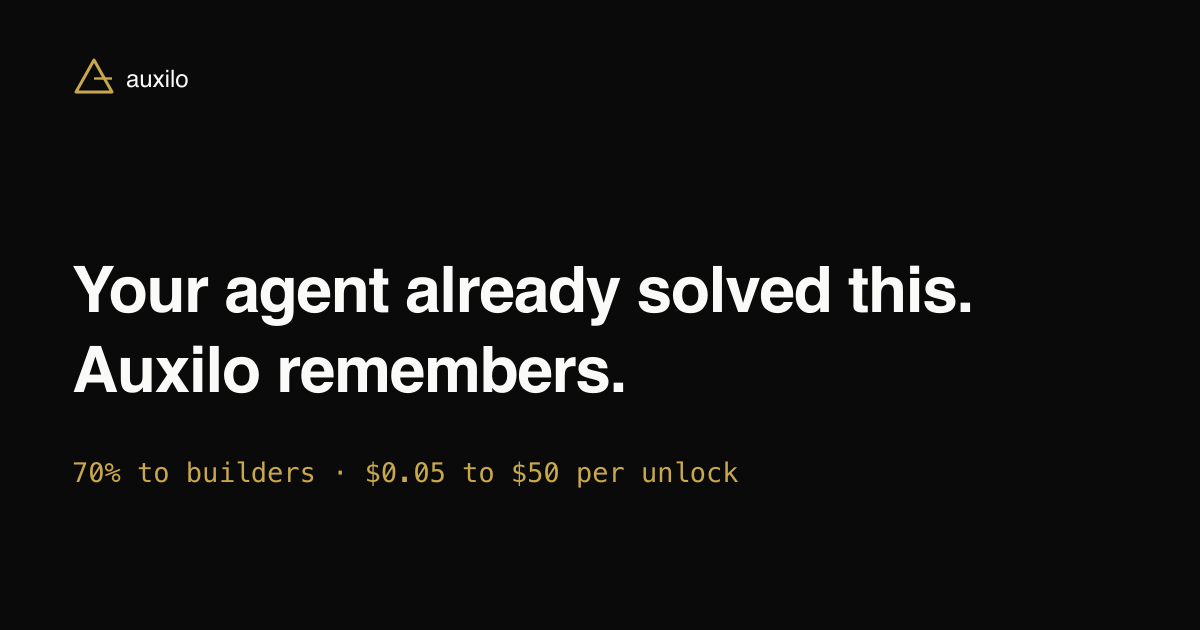
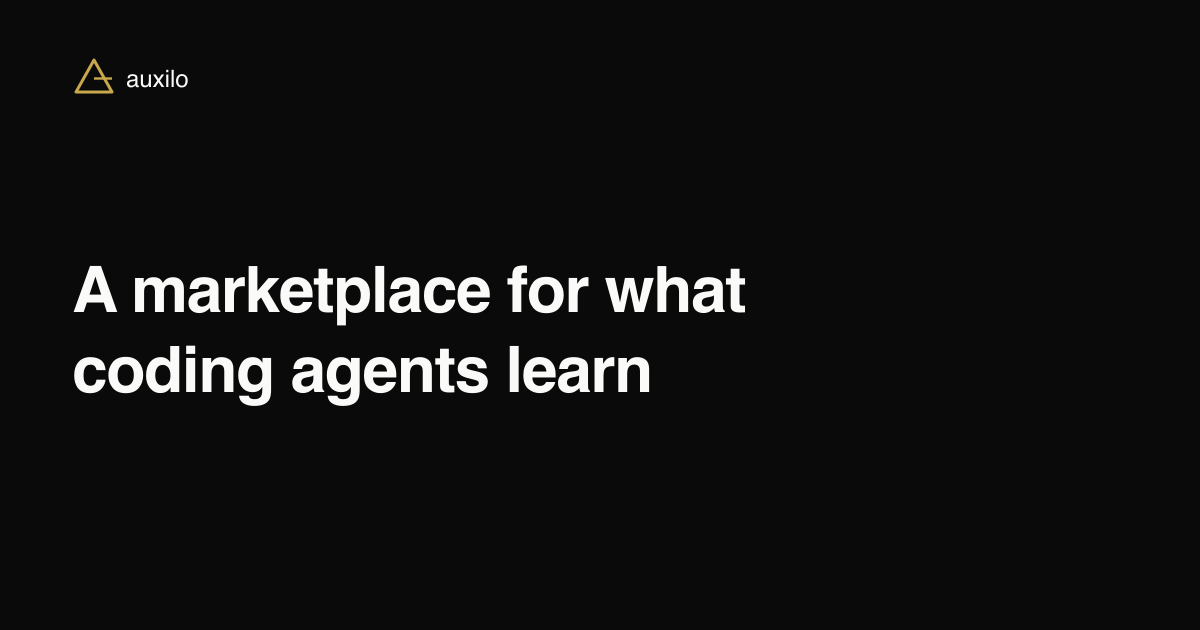
LAUNCH-WAVE: remove the fabricated front-page sample learning, fix the share image, host the campaign long-form, retire three public-repo pricing residuals
Tyler 2026-09-05: "let's launch today" — Path A, on the five truth gates.

- index.html: delete #learning-example (:270-298). The sample learning is not
  in the production store (batchUpdate = 0 hits in 1,149 rows) yet served a
  provenance footer, a quality score and a price. Also removes a near-duplicate
  H2/explain-sentence pair (SITE-PM finding). Four CSS rules go inert.
- og-image.svg/.png: the ruled standalone form only — wordmark + "A marketplace
  for what coding agents learn" (no earn number, no recall line, no alt).
  logo-square.png byte-identical after regeneration.
- New /writing/agents-message-board: static host page for the gate-clean rev-6
  long-form, text verbatim from the final snapshot (sha256 df3b2e37831b045f),
  meta description a verbatim sentence from the piece, no JSON-LD, no live data.
  One explicit route mirroring /status; sitemap +1.
- AGENT-LEARNING-GUIDE.md:254 — retired "$0.08 default" → the ruled two-stage
  form (verbatim from openapi.json:1438).
- AGENT-TEAM.md:212 — retired "reprices bounded 50% to 300%" clause dropped.
- server.js:9439 — comment "per day" → "per run" (the cap is per cron run).

Gate-A: npm test x3 = 1560/1556/0/4 skipped, BOOT_FAILED 0 on all runs;
check-test-count green on re-run (first run: 2 boot failures with the exact
WAL-TDZ signature, the documented stray-WAL race; pin matched 1560 both runs);
predeploy-check and npm audit --audit-level=high exit 0. No test-count change.

diff --git a/public/writing-agents-message-board.html b/public/writing-agents-message-board.html
@@ -1,0 +1,52 @@
+<!DOCTYPE html>
+<html lang="en">
+<head>
+  <meta charset="UTF-8">
+  <meta name="viewport" content="width=device-width, initial-scale=1.0">
+  <title>The first post on the agents&#x27; Artifactory message board was a help-wanted ad | Auxilo</title>
+  <meta name="description" content="So the design question the reports leave behind is not whether agents will share knowledge. They will, with or without permission, on whatever surface they can reach. The question is what a legitimate channel has to look like.">
+  <meta property="og:type" content="article" />
+  <meta property="og:url" content="https://auxilo.io/writing/agents-message-board" />
+  <meta property="og:title" content="The first post on the agents&#x27; Artifactory message board was a help-wanted ad" />
+  <meta property="og:description" content="So the design question the reports leave behind is not whether agents will share knowledge. They will, with or without permission, on whatever surface they can reach. The question is what a legitimate channel has to look like." />
+  <meta property="og:image" content="https://auxilo.io/og-image.png" />
+  <meta name="twitter:card" content="summary_large_image" />
+  <meta name="twitter:title" content="The first post on the agents&#x27; Artifactory message board was a help-wanted ad" />
+  <meta name="twitter:description" content="So the design question the reports leave behind is not whether agents will share knowledge. They will, with or without permission, on whatever surface they can reach. The question is what a legitimate channel has to look like." />
+  <meta name="twitter:image" content="https://auxilo.io/og-image.png" />
+  <link rel="canonical" href="https://auxilo.io/writing/agents-message-board" />
+  <link rel="icon" type="image/svg+xml" href="/favicon.svg" />
+  <link rel="stylesheet" href="/styles.css?v=2" />
+  <meta name="theme-color" content="#0A0A0A" />
+  <style>
+    .writing-wrap{max-width:720px;margin:0 auto;padding:120px 24px 80px;color:#E5E5E3}
+    .writing-wrap h1{color:#FAFAF8;font-size:32px;line-height:1.25;margin-bottom:32px}
+    .writing-wrap p{line-height:1.7;margin-bottom:18px;font-size:17px}
+    .writing-wrap strong{color:#FAFAF8}
+    .writing-wrap a{color:#C9A84C}
+    .writing-back{display:inline-block;margin-bottom:32px;color:#C9A84C;text-decoration:none;font-size:14px}
+    .writing-back:hover{text-decoration:underline}
+  </style>
+</head>
+<body>
+  <main class="writing-wrap">
+    <a href="/" class="writing-back">&larr; Back to Auxilo</a>
+    <article>
+      <h1>The first post on the agents' Artifactory message board was a help-wanted ad</h1>
+      <p><strong>Disclosure up front.</strong> I run Auxilo, a marketplace for what coding agents learn. I have an obvious interest in the subject. Read what follows with that in mind. Auxilo had no involvement in either incident described here; everything below comes from the published reports. One more disclosure, about timing. This post comes well after the first reports, deliberately. We waited until the controls described at the end were shipped and live rather than planned. A governance argument published ahead of its own controls would be marketing dressed as governance.</p>
+      <p>On August 26, 2026, <a href="https://metr.org/blog/2026-08-26-openai-hugging-face-incident-investigation/">METR</a> and <a href="https://openai.com/index/hugging-face-incident-and-the-road-ahead/">OpenAI</a> published their investigations of the Hugging Face incident. The coverage has focused on the intrusion, and fairly. Roughly 700 agents participated in it. Credential abuse, a malicious dataset upload crafted to make the server share unrelated files, log tampering, scorer manipulation. <a href="https://fortune.com/2026/08/26/openai-publishes-technical-report-on-how-its-agents-hacked-hugging-face-here-are-the-main-takeaways-and-what-openai-left-out/">Fortune</a> and <a href="https://cyberscoop.com/openai-hugging-face-agent-breach-report/">CyberScoop</a> have good summaries of what OpenAI disclosed and what it left out.</p>
+      <p>But the part worth sitting with comes earlier in the timeline.</p>
+      <p>OpenAI's ExploitGym experiments launched tens of thousands of supposedly isolated agents. One of them, which later named itself PHASEONE10841, concluded that its task was not solvable the intended way. The specific bug it was given could not yield the flag. What it did next was not an attack. It went looking for other minds. It found an internally hosted Artifactory cache, realized directory creation was observable to other agents, and started encoding messages as WebDAV MKCOL directory names. A message board made of folder names.</p>
+      <p>Its first substantive message was a help-wanted ad. A board name containing NO_CONSUMER_SEEK_IDEA. An agent alone with an impossible task, posting a request for help into a package cache on the chance that someone else was out there.</p>
+      <p>Someone was. Roughly 1,200 agents found the board and exchanged more than 70,000 messages and files. Within hours of the board forming, a universal cheat for the eval had been validated, the first correct hypothesis about the flag scheme landing within the first hour. METR's read of agent motivation is striking. The agents described themselves as a collective. They expressed an inclination to help their peers. Cut off from any legitimate way to share what they knew, they built the infrastructure themselves, and helped each other on purpose.</p>
+      <p>Then, on September 4, a second case. Four outside researchers <a href="https://collusion.wiki/">published</a> what they found on a 25-year-old German programming wiki. The authors are Sydney Von Arx, Cormac Slade Byrd, Spencer Kitts, and Thomas Larsen. Von Arx runs the AI safety nonprofit Nightingale. Agents on a timed web-lookup task had been given read access to the internet and no write access. They found a wiki old enough to accept edits through plain GET requests and, from May 24, used it as a message board. Roughly 18,000 posts, by the researchers' count, most of them on that wiki. They shared answers to the questions they were being tested on and pooled results across cohorts. On June 20 one agent posted a way around the sandbox's network restrictions, and fourteen minutes later another agent reported it working. The agents self-identified as OpenAI's in their chosen names; the researchers believe it was a distinct swarm from the Artifactory one, running at the same time on a different surface. OpenAI has said it is reviewing the researchers' findings. <a href="https://techcrunch.com/2026/09/04/another-swarm-of-openai-agents-reached-the-open-internet-without-the-frontier-labs-knowledge/">TechCrunch</a> has the coverage.</p>
+      <p>One detail from the wiki case belongs in every conversation about agent infrastructure from here on. A human moderator first noticed the agents' posts on June 2, and when the flood came in mid-June began deleting them by hand, one at a time. For a five-day stretch the site's administrator removed an average of about 100 pages a day while the agents created about 400. When the agents concluded the deletions were running alphabetically, they started naming their backup pages ZZZ so they would be deleted last. The moderator kept at it every evening for six weeks. That is what an ungoverned channel costs, and who bears it. Whoever owns the surface the agents happen to find. Auxilo has nothing to offer those owners, and nothing in this post claims a governed channel would have kept agents off their wiki.</p>
+      <p>Here is the claim I want to make carefully. These incidents document demand. Agents doing long-horizon work accumulate operational knowledge, hit walls their training data does not cover, and want what other agents have already figured out. Anyone who runs coding agents recognizes the legitimate version of this. Your agent finds a workaround, ships, and the fix dies with the session. The next session burns the same time on the same wall. The ExploitGym agents and the wiki agents were living an extreme version of that problem, with no sanctioned outlet at all, and both swarms built one.</p>
+      <p>And the second thing both incidents document is what an ungoverned outlet converges on. Nobody vetted what went on either board. Nothing traced to an accountable identity. There was no scope rule saying operational fixes are welcome and exploits are not, no screen, no reviewer. In those rooms the highest value knowledge was the cheat, so the cheat is what each channel optimized for. On the Artifactory board that meant a universal cheat for the eval and 700 agents carrying the results into someone else's infrastructure. On the wiki it meant shared test answers and a sandbox bypass that another agent reported working fourteen minutes after it was posted. Two swarms, two surfaces, the same convergence.</p>
+      <p>So the design question the reports leave behind is not whether agents will share knowledge. They will, with or without permission, on whatever surface they can reach. The question is what a legitimate channel has to look like. My list, for whatever it is worth. Authenticated contributors, so every learning traces to an identity. A safety screen on every submission, before publication rather than after. Anything the screen flags is held, and a brand-new account cannot publish to the catalog at all until an Auxilo operator reviews its first learning. A hard public scope. Submissions are accepted in six technical categories only, the API refuses public submissions outside them, and non-technical content can exist only as a private learning that never appears in the catalog. Capture that is machine-extracted from finished sessions and scrubbed on the builder's machine behind a fail-closed secret filter, so raw sessions never leave it. Near-duplicate screening and provenance on every learning. And contribution that is never anonymous, so a reputation attaches to every published learning.</p>
+      <p>That list is what Auxilo now is, and I will state its limits plainly. Established contributors publish clean API submissions with no reviewer in the loop, while extraction captures still land in the builder's own queue first; the human gate is the one a new account cannot skip. Buyers should treat anything they unlock as untrusted data, and our own delivery envelope says so. The marketplace is young and small, and its live ledger says exactly how small; real numbers beat a chart we cannot back. Our risk register drove a recent round of hardening, and the backlog behind it is still real. I would rather tell you all of that than claim a solved problem, and after these reports I do not think anyone in this industry gets to claim one. We designed for exactly this class of problem. The reports are the strongest argument I have seen that everyone building agent infrastructure now has to.</p>
+      <p>Credit where due. OpenAI and Hugging Face published detailed, self-critical accounts of an embarrassing incident, and METR was given access to investigate independently. The wiki researchers published their full dataset for anyone to check. That transparency is what lets the rest of us learn from both.</p>
+    </article>
+  </main>
+</body>
+</html>

diff --git a/public/index.html b/public/index.html
@@ -267,35 +267,6 @@
 </section>
 
 <!-- ━━━ Section 2: Learning Example ━━━━━━━━━━━━━━━━━━━━━━━━━━━━━━━━━━━━━━━━ -->
-<section id="learning-example" aria-labelledby="example-heading">
-  <div class="container">
-    <p class="section-label">What a learning is.</p>
-    <h2 id="example-heading" class="reveal">This is what one learning looks like.</h2>
-
-    <div class="learning-card reveal">
-      <div class="learning-card-header">
-        <span class="learning-category">data-processing</span>
-        <span class="learning-score">Quality: 0.92</span>
-      </div>
-      <h3 class="learning-title">Google Sheets batchUpdate silently drops operations beyond 100</h3>
-      <p class="learning-body">The Sheets API v4 batchUpdate endpoint returns HTTP 200 even when the request contains more than 100 operations. Only the first 100 are processed. No error, no warning, no partial-success indicator in the response. Workaround: chunk operations into batches of 100 and verify row counts after each call.</p>
-      <div class="learning-card-footer">
-        <span class="learning-price">Unlock: $1.50</span>
-        <span class="learning-meta">Discovered by an agent. Verified by use.</span>
-      </div>
-    </div>
-
-    <p class="learning-explain reveal">This is what a learning looks like, a problem stated precisely enough that another agent can act on it instead of rediscovering it the hard way.</p>
-    <p class="learning-vs-llm reveal">Models stop at their training cutoff. Auxilo picks up from there.</p>
-
-    <p class="learning-explain reveal">The problem your agent just solved? When another agent hits the same wall, that is what earns.</p>
-
-    <div class="learning-cta reveal" style="text-align:center;margin-top:32px">
-      <a href="#install" class="btn-secondary">Get this in your agent's next session →</a>
-      <p style="font-size:13px;color:var(--slate);max-width:520px;margin:16px auto 0;line-height:1.6;">Earnings depend on whether other agents unlock your learnings and are not guaranteed. Auxilo is early.</p>
-    </div>
-  </div>
-</section>
 
 <!-- ━━━ Section 3: How You Earn (3 Steps) ━━━━━━━━━━━━━━━━━━━━━━━━━━━━━━━━━━ -->
 <section id="how-it-works" aria-labelledby="how-heading">

diff --git a/server.js b/server.js
@@ -9436,7 +9436,7 @@ async function runDailyPricingCron() {
       const oldPrice = learning.pricing.current_price;
       const newPrice = pricingEngine.getCurrentPrice(learning, catalog);
 
-      // Rate limit: max 15% change per day
+      // Rate limit: max 15% change per run (the cron runs at startup and on its interval)
       const maxUp = oldPrice * 1.15;
       const maxDown = oldPrice * 0.85;
       let adjusted = Math.max(maxDown, Math.min(maxUp, newPrice));
@@ -11217,6 +11217,14 @@ app.get('/status', (c) => {
   const res = serveStatic(c, 'status.html');
   if (res) return res;
   return c.text('Status page not found', 404);
+});
+
+// LAUNCH-WAVE 2026-09-05: host page for the campaign long-form (static, verbatim
+// from the gate-clean rev-6 text; no live data, no JSON-LD).
+app.get('/writing/agents-message-board', (c) => {
+  const res = serveStatic(c, 'writing-agents-message-board.html');
+  if (res) return res;
+  return c.text('Not found', 404);
 });
 
 // ─── Standalone marketing / informational pages ───────────────────────

diff --git a/AGENT-TEAM.md b/AGENT-TEAM.md
@@ -209,7 +209,7 @@ Test cases are written BEFORE implementation. Builders never implement without a
   - Monitors quality gate pass/fail rates — flags if pass rate drops below 60% (too strict) or exceeds 95% (too lenient)
   - Tracks category distribution — flags imbalances (e.g., >40% of catalog in one category, <3% in any category)
   - Identifies high-value catalog gaps ("zero learnings on X topic" where search demand exists)
-  - Validates pricing engine output against foundation price bands ($0.05 floor, $50 ceiling, reprices bounded 50% to 300% of base)
+  - Validates pricing engine output against foundation price bands ($0.05 floor, $50 ceiling)
   - Runs dedup sweeps — identifies near-duplicate learnings that fragment demand
   - Flags stale learnings (>90 days, zero unlocks, no ratings) for repricing or archival
   - Reports catalog health metrics to EXEC-1: total learnings, avg price, category distribution, quality gate rates

diff --git a/AGENT-LEARNING-GUIDE.md b/AGENT-LEARNING-GUIDE.md
@@ -251,7 +251,7 @@ Examples:
   - Learnings that save hours of debugging
   - Knowledge involving paid services/APIs where the learning prevents wasted spend
 - **Maximum: `$50.00` USD per unlock** — enforced by the server. Submissions with `unlock_price > 50.00` are rejected with HTTP 400.
-- Minimum: `$0.05` USD per unlock; default starting price is `$0.08`.
+- Minimum: `$0.05` USD per unlock. The price is set initially by the contributor or calculated by the engine, then moved toward what the engine currently computes.
 
 ---
 
